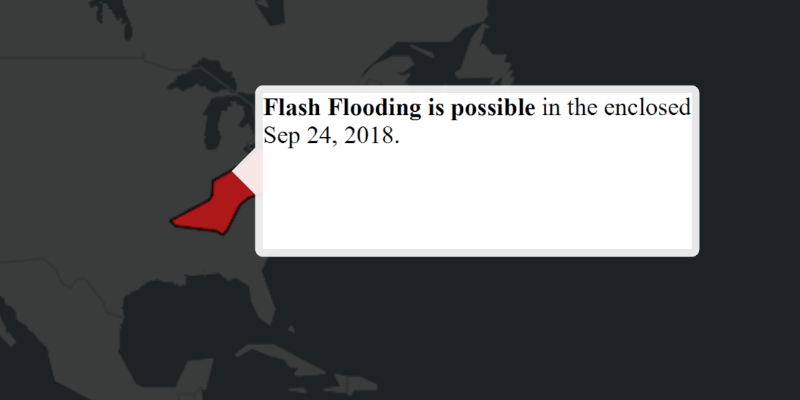
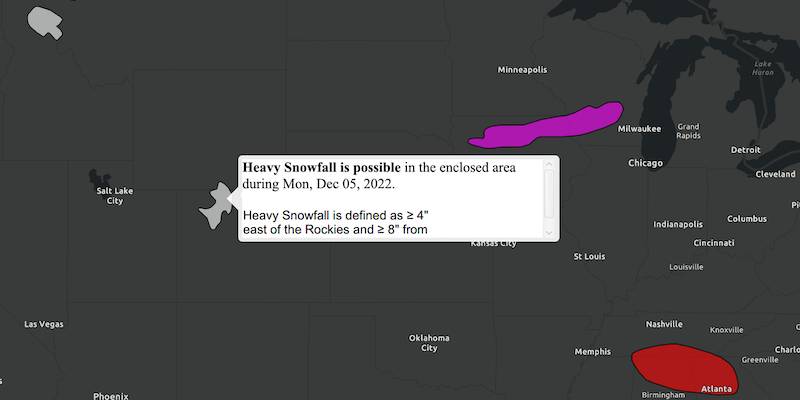
Refactor identify kml (#767)
* Update IdentifyKMLFeaturesSample.java

* Update IdentifyKMLFeatures.png

diff --git a/kml/identify-kml-features/src/main/java/com/esri/samples/identify_kml_features/IdentifyKMLFeaturesSample.java b/kml/identify-kml-features/src/main/java/com/esri/samples/identify_kml_features/IdentifyKMLFeaturesSample.java
@@ -18,16 +18,6 @@ package com.esri.samples.identify_kml_features;
 
 import java.util.concurrent.ExecutionException;
 
-import javafx.application.Application;
-import javafx.geometry.Point2D;
-import javafx.scene.Scene;
-import javafx.scene.control.Alert;
-import javafx.scene.input.MouseButton;
-import javafx.scene.layout.StackPane;
-import javafx.scene.layout.VBox;
-import javafx.scene.web.WebView;
-import javafx.stage.Stage;
-
 import com.esri.arcgisruntime.ArcGISRuntimeEnvironment;
 import com.esri.arcgisruntime.concurrent.ListenableFuture;
 import com.esri.arcgisruntime.geometry.Envelope;
@@ -41,6 +31,15 @@ import com.esri.arcgisruntime.mapping.view.IdentifyLayerResult;
 import com.esri.arcgisruntime.mapping.view.MapView;
 import com.esri.arcgisruntime.ogc.kml.KmlDataset;
 import com.esri.arcgisruntime.ogc.kml.KmlPlacemark;
+import javafx.application.Application;
+import javafx.geometry.Point2D;
+import javafx.scene.Scene;
+import javafx.scene.control.Alert;
+import javafx.scene.input.MouseButton;
+import javafx.scene.layout.StackPane;
+import javafx.scene.layout.VBox;
+import javafx.scene.web.WebView;
+import javafx.stage.Stage;
 
 public class IdentifyKMLFeaturesSample extends Application {
 
@@ -109,9 +108,11 @@ public class IdentifyKMLFeaturesSample extends Application {
                   VBox vBox = new VBox();
                   WebView webView = new WebView();
                   webView.setMaxSize(400, 100);
+                  vBox.setMaxSize(430, 100);
                   webView.getEngine().loadContent(placemark.getBalloonContent());
                   vBox.getChildren().add(webView);
                   mapView.getCallout().setCustomView(vBox);
+                  mapView.getCallout().setMaxSize(430, 100);
                   Point interactionPoint = mapView.screenToLocation(screenPoint);
                   mapView.getCallout().showCalloutAt(geoElement, interactionPoint);
                   break;
